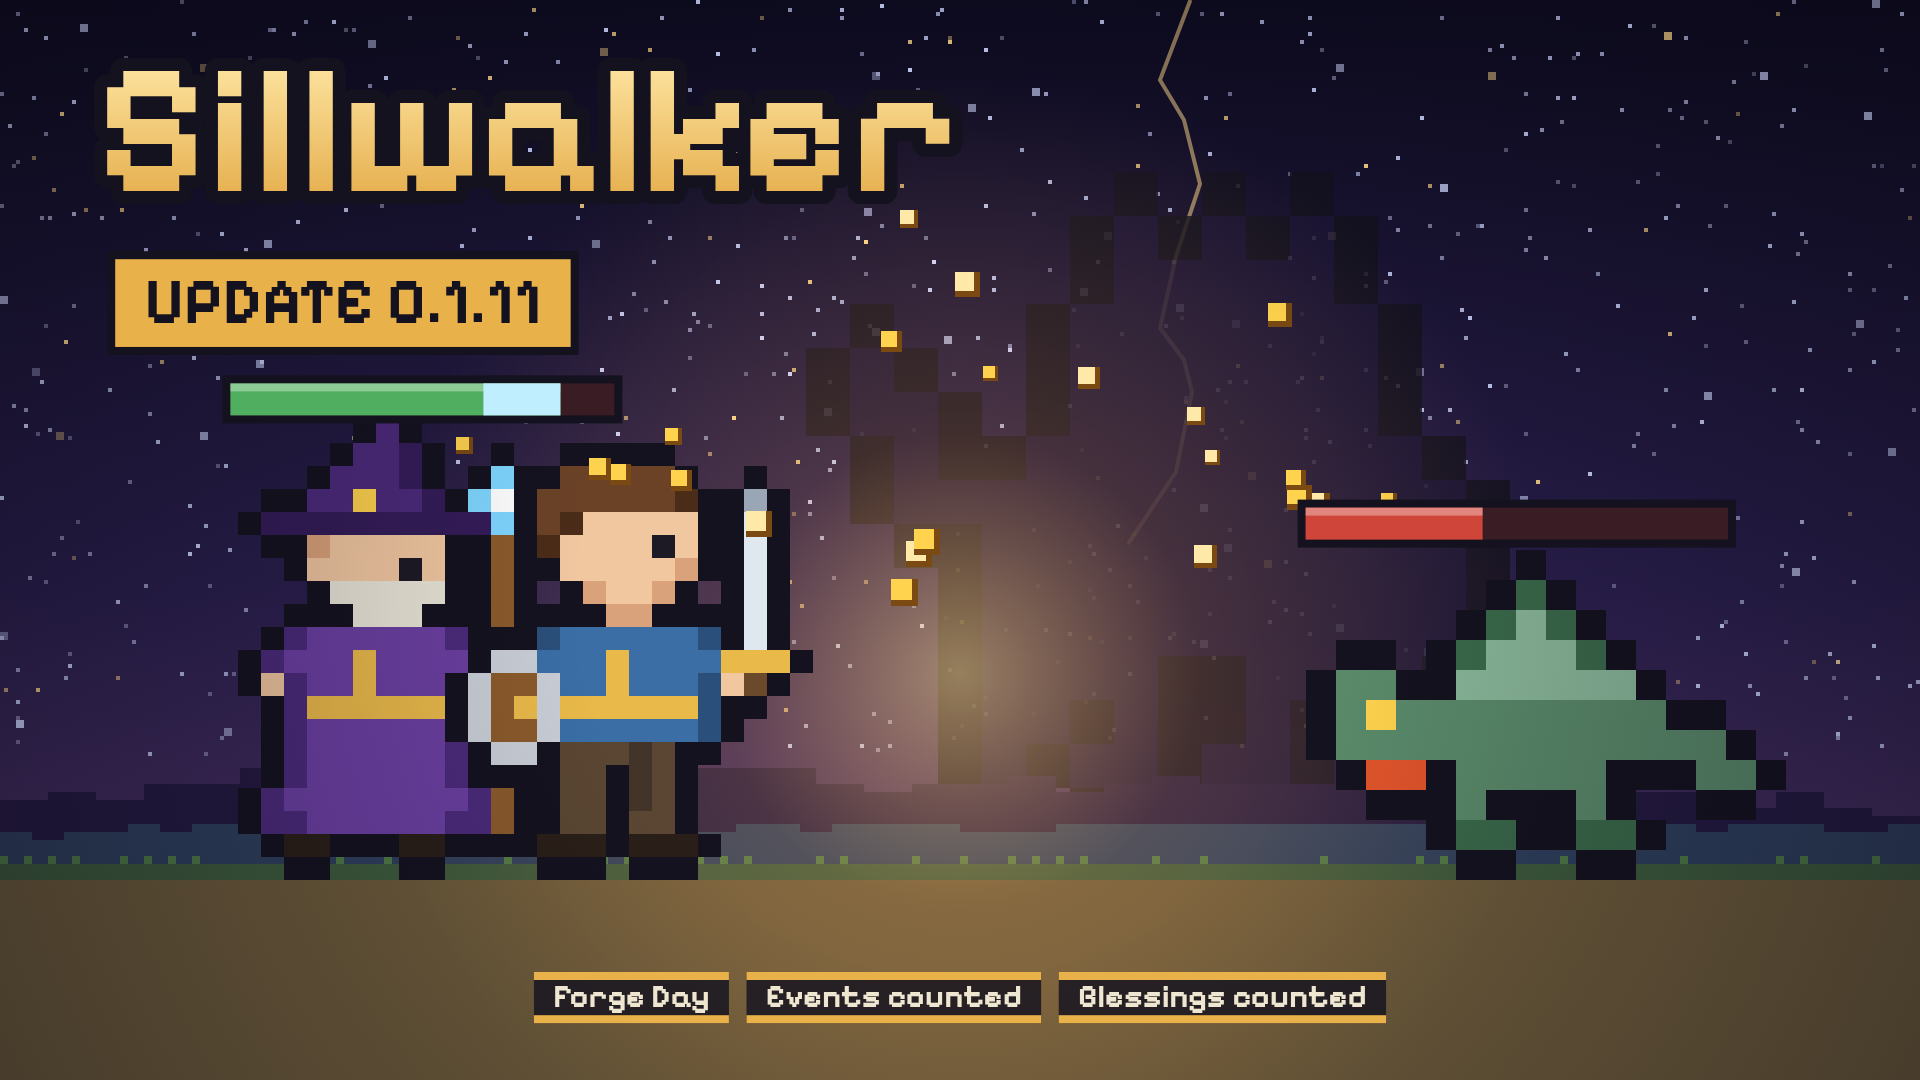
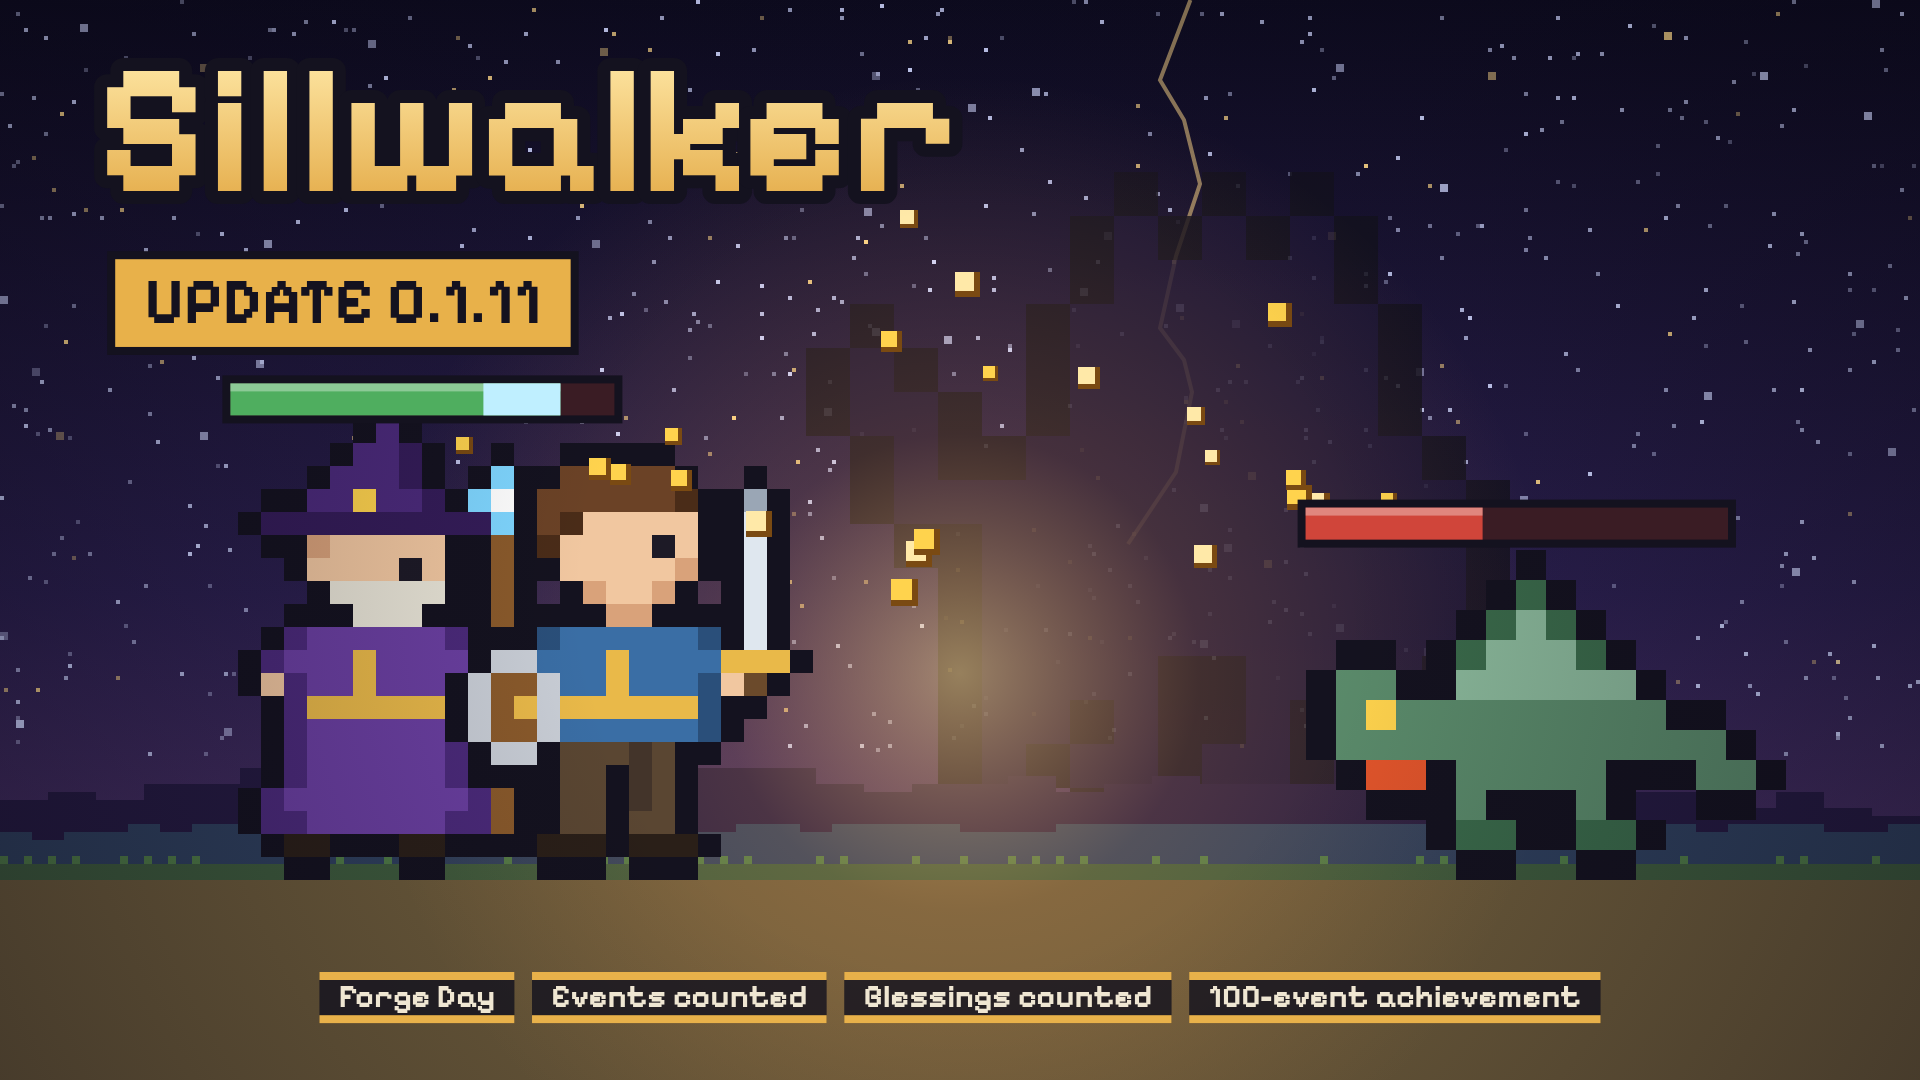
Quoi de neuf (it. 3302) : édition 192, couverture 0.1.11 complétée
Claude-Session: https://claude.ai/code/session_01BoV1hVHohF69q4PDskLo8j

Changed region(s): [[0.1562, 0.8861, 0.8438, 0.9472]]

diff --git a/src/renderer/game/news.js b/src/renderer/game/news.js
@@ -933,7 +933,10 @@ const EDITION_190 = [
 const EDITION_191 = [
   "Bestiaire : chaque événement rare vécu dit combien de fois, et chaque bénédiction du jour combien de jours tu l’as vécue.",
 ];
-export const NEWS_EDITIONS = [EDITION_1, EDITION_2, EDITION_3, EDITION_4, EDITION_5, EDITION_6, EDITION_7, EDITION_8, EDITION_9, EDITION_10, EDITION_11, EDITION_12, EDITION_13, EDITION_14, EDITION_15, EDITION_16, EDITION_17, EDITION_18, EDITION_19, EDITION_20, EDITION_21, EDITION_22, EDITION_23, EDITION_24, EDITION_25, EDITION_26, EDITION_27, EDITION_28, EDITION_29, EDITION_30, EDITION_31, EDITION_32, EDITION_33, EDITION_34, EDITION_35, EDITION_36, EDITION_37, EDITION_38, EDITION_39, EDITION_40, EDITION_41, EDITION_42, EDITION_43, EDITION_44, EDITION_45, EDITION_46, EDITION_47, EDITION_48, EDITION_49, EDITION_50, EDITION_51, EDITION_52, EDITION_53, EDITION_54, EDITION_55, EDITION_56, EDITION_57, EDITION_58, EDITION_59, EDITION_60, EDITION_61, EDITION_62, EDITION_63, EDITION_64, EDITION_65, EDITION_66, EDITION_67, EDITION_68, EDITION_69, EDITION_70, EDITION_71, EDITION_72, EDITION_73, EDITION_74, EDITION_75, EDITION_76, EDITION_77, EDITION_78, EDITION_79, EDITION_80, EDITION_81, EDITION_82, EDITION_83, EDITION_84, EDITION_85, EDITION_86, EDITION_87, EDITION_88, EDITION_89, EDITION_90, EDITION_91, EDITION_92, EDITION_93, EDITION_94, EDITION_95, EDITION_96, EDITION_97, EDITION_98, EDITION_99, EDITION_100, EDITION_101, EDITION_102, EDITION_103, EDITION_104, EDITION_105, EDITION_106, EDITION_107, EDITION_108, EDITION_109, EDITION_110, EDITION_111, EDITION_112, EDITION_113, EDITION_114, EDITION_115, EDITION_116, EDITION_117, EDITION_118, EDITION_119, EDITION_120, EDITION_121, EDITION_122, EDITION_123, EDITION_124, EDITION_125, EDITION_126, EDITION_127, EDITION_128, EDITION_129, EDITION_130, EDITION_131, EDITION_132, EDITION_133, EDITION_134, EDITION_135, EDITION_136, EDITION_137, EDITION_138, EDITION_139, EDITION_140, EDITION_141, EDITION_142, EDITION_143, EDITION_144, EDITION_145, EDITION_146, EDITION_147, EDITION_148, EDITION_149, EDITION_150, EDITION_151, EDITION_152, EDITION_153, EDITION_154, EDITION_155, EDITION_156, EDITION_157, EDITION_158, EDITION_159, EDITION_160, EDITION_161, EDITION_162, EDITION_163, EDITION_164, EDITION_165, EDITION_166, EDITION_167, EDITION_168, EDITION_169, EDITION_170, EDITION_171, EDITION_172, EDITION_173, EDITION_174, EDITION_175, EDITION_176, EDITION_177, EDITION_178, EDITION_179, EDITION_180, EDITION_181, EDITION_182, EDITION_183, EDITION_184, EDITION_185, EDITION_186, EDITION_187, EDITION_188, EDITION_189, EDITION_190, EDITION_191];
+const EDITION_192 = [
+  "Nouveau succès : « Témoin des prodiges (100 événements rares) », un objectif pour les longues parties.",
+];
+export const NEWS_EDITIONS = [EDITION_1, EDITION_2, EDITION_3, EDITION_4, EDITION_5, EDITION_6, EDITION_7, EDITION_8, EDITION_9, EDITION_10, EDITION_11, EDITION_12, EDITION_13, EDITION_14, EDITION_15, EDITION_16, EDITION_17, EDITION_18, EDITION_19, EDITION_20, EDITION_21, EDITION_22, EDITION_23, EDITION_24, EDITION_25, EDITION_26, EDITION_27, EDITION_28, EDITION_29, EDITION_30, EDITION_31, EDITION_32, EDITION_33, EDITION_34, EDITION_35, EDITION_36, EDITION_37, EDITION_38, EDITION_39, EDITION_40, EDITION_41, EDITION_42, EDITION_43, EDITION_44, EDITION_45, EDITION_46, EDITION_47, EDITION_48, EDITION_49, EDITION_50, EDITION_51, EDITION_52, EDITION_53, EDITION_54, EDITION_55, EDITION_56, EDITION_57, EDITION_58, EDITION_59, EDITION_60, EDITION_61, EDITION_62, EDITION_63, EDITION_64, EDITION_65, EDITION_66, EDITION_67, EDITION_68, EDITION_69, EDITION_70, EDITION_71, EDITION_72, EDITION_73, EDITION_74, EDITION_75, EDITION_76, EDITION_77, EDITION_78, EDITION_79, EDITION_80, EDITION_81, EDITION_82, EDITION_83, EDITION_84, EDITION_85, EDITION_86, EDITION_87, EDITION_88, EDITION_89, EDITION_90, EDITION_91, EDITION_92, EDITION_93, EDITION_94, EDITION_95, EDITION_96, EDITION_97, EDITION_98, EDITION_99, EDITION_100, EDITION_101, EDITION_102, EDITION_103, EDITION_104, EDITION_105, EDITION_106, EDITION_107, EDITION_108, EDITION_109, EDITION_110, EDITION_111, EDITION_112, EDITION_113, EDITION_114, EDITION_115, EDITION_116, EDITION_117, EDITION_118, EDITION_119, EDITION_120, EDITION_121, EDITION_122, EDITION_123, EDITION_124, EDITION_125, EDITION_126, EDITION_127, EDITION_128, EDITION_129, EDITION_130, EDITION_131, EDITION_132, EDITION_133, EDITION_134, EDITION_135, EDITION_136, EDITION_137, EDITION_138, EDITION_139, EDITION_140, EDITION_141, EDITION_142, EDITION_143, EDITION_144, EDITION_145, EDITION_146, EDITION_147, EDITION_148, EDITION_149, EDITION_150, EDITION_151, EDITION_152, EDITION_153, EDITION_154, EDITION_155, EDITION_156, EDITION_157, EDITION_158, EDITION_159, EDITION_160, EDITION_161, EDITION_162, EDITION_163, EDITION_164, EDITION_165, EDITION_166, EDITION_167, EDITION_168, EDITION_169, EDITION_170, EDITION_171, EDITION_172, EDITION_173, EDITION_174, EDITION_175, EDITION_176, EDITION_177, EDITION_178, EDITION_179, EDITION_180, EDITION_181, EDITION_182, EDITION_183, EDITION_184, EDITION_185, EDITION_186, EDITION_187, EDITION_188, EDITION_189, EDITION_190, EDITION_191, EDITION_192];
 export const NEWS_ID = NEWS_EDITIONS.length;
 /** Nouveautés des éditions après `seen` (0 : toutes), la plus récente d'abord. */
 export const newsItems = (seen = 0) => NEWS_EDITIONS.slice(Math.max(0, seen)).reverse().flat();

diff --git a/scripts/steam-capsules/make.js b/scripts/steam-capsules/make.js
@@ -20,7 +20,7 @@ const SIZES = [
   ["update-0.1.8", 1920, 1080, "update", { ver: "0.1.8", tags: "Fairer champions|Richer return|Safe full bag|One-click buys|Clear big numbers|Royal Favor event" }], // (it. 3193)
   ["update-0.1.9", 1920, 1080, "update", { ver: "0.1.9", tags: "Star Day|Relentless elite|Weasel & Hummingbird|Shooting-star quests|Clearer mini mode" }], // (it. 3237)
   ["update-0.1.10", 1920, 1080, "update", { ver: "0.1.10", tags: "Zeal Day|Champions’ Challenge|The Shrike pet|Friendlier mini mode|Clearer translations" }], // (it. 3260, 3273)
-  ["update-0.1.11", 1920, 1080, "update", { ver: "0.1.11", tags: "Forge Day|Events counted|Blessings counted" }], // (it. 3299)
+  ["update-0.1.11", 1920, 1080, "update", { ver: "0.1.11", tags: "Forge Day|Events counted|Blessings counted|100-event achievement" }], // (it. 3299, 3302)
 ].filter(([name]) => !process.env.ONLY || name === process.env.ONLY); // ONLY=<nom> : une seule image
 app.whenReady().then(async () => {
   fs.mkdirSync(OUT, { recursive: true });

diff --git a/src/renderer/i18n/lang/ru.js b/src/renderer/i18n/lang/ru.js
@@ -2410,4 +2410,5 @@ export default {
   3535: "{n} день|{n} дня|{n} дней",
   3536: "Бестиарий: у каждого пережитого редкого события видно, сколько раз, а у каждого благословения дня — сколько дней.",
   3537: "Свидетель чудес (100 редких событий)",
+  3538: "Новое достижение: «Свидетель чудес (100 редких событий)» — цель для долгих партий.",
 };

diff --git a/src/renderer/i18n/keys.js b/src/renderer/i18n/keys.js
@@ -3539,5 +3539,6 @@ export const KEYS = [
   "Nouvelle bénédiction du jour, le « Jour de la forge » : forger coûte deux fois moins cher ce jour-là.",
   "{n} jour|{n} jours",
   "Bestiaire : chaque événement rare vécu dit combien de fois, et chaque bénédiction du jour combien de jours tu l’as vécue.",
-  "Témoin des prodiges (100 événements rares)"
+  "Témoin des prodiges (100 événements rares)",
+  "Nouveau succès : « Témoin des prodiges (100 événements rares) », un objectif pour les longues parties."
 ];

diff --git a/src/renderer/i18n/lang/ja.js b/src/renderer/i18n/lang/ja.js
@@ -2410,4 +2410,5 @@ export default {
   3535: "{n} 日",
   3536: "モンスター図鑑：体験したレアイベントは回数を、日替わりの祝福は体験した日数を表示します。",
   3537: "奇跡の目撃者（レアイベント 100 回）",
+  3538: "新しい実績：「奇跡の目撃者（レアイベント 100 回）」、長く遊ぶ人のための目標。",
 };

diff --git a/src/renderer/i18n/lang/pl.js b/src/renderer/i18n/lang/pl.js
@@ -2410,4 +2410,5 @@ export default {
   3535: "{n} dzień|{n} dni|{n} dni",
   3536: "Bestiariusz: każde przeżyte rzadkie wydarzenie pokazuje, ile razy, a każde błogosławieństwo dnia – przez ile dni je miałeś.",
   3537: "Świadek cudów (100 rzadkich zdarzeń)",
+  3538: "Nowe osiągnięcie: „Świadek cudów (100 rzadkich zdarzeń)”, cel na długie rozgrywki.",
 };

diff --git a/src/renderer/i18n/lang/de.js b/src/renderer/i18n/lang/de.js
@@ -2410,4 +2410,5 @@ export default {
   3535: "{n} Tag|{n} Tage",
   3536: "Bestiarium: Jedes erlebte seltene Ereignis zeigt, wie oft, und jeder Segen des Tages, an wie vielen Tagen du ihn hattest.",
   3537: "Zeuge der Wunder (100 seltene Ereignisse)",
+  3538: "Neuer Erfolg: „Zeuge der Wunder (100 seltene Ereignisse)“, ein Ziel für lange Partien.",
 };

diff --git a/src/renderer/i18n/lang/pt.js b/src/renderer/i18n/lang/pt.js
@@ -2410,4 +2410,5 @@ export default {
   3535: "{n} dia|{n} dias",
   3536: "Bestiário: cada evento raro vivido mostra quantas vezes, e cada bênção do dia quantos dias você a teve.",
   3537: "Testemunha de prodígios (100 eventos raros)",
+  3538: "Nova conquista: “Testemunha de prodígios (100 eventos raros)”, um objetivo para partidas longas.",
 };

diff --git a/src/renderer/i18n/lang/es.js b/src/renderer/i18n/lang/es.js
@@ -2410,4 +2410,5 @@ export default {
   3535: "{n} día|{n} días",
   3536: "Bestiario: cada evento raro vivido indica cuántas veces, y cada bendición del día cuántos días la has tenido.",
   3537: "Testigo de prodigios (100 eventos raros)",
+  3538: "Nuevo logro: «Testigo de prodigios (100 eventos raros)», un objetivo para las partidas largas.",
 };

diff --git a/src/renderer/i18n/lang/ko.js b/src/renderer/i18n/lang/ko.js
@@ -2410,4 +2410,5 @@ export default {
   3535: "{n}일",
   3536: "몬스터 도감: 겪은 희귀 이벤트마다 횟수를, 오늘의 축복마다 겪은 날수를 보여 줍니다.",
   3537: "기적의 목격자 (희귀 이벤트 100회)",
+  3538: "새 업적: 「기적의 목격자 (희귀 이벤트 100회)」, 긴 플레이를 위한 목표.",
 };

diff --git a/src/renderer/i18n/lang/en.js b/src/renderer/i18n/lang/en.js
@@ -2410,4 +2410,5 @@ export default {
   3535: "{n} day|{n} days",
   3536: "Bestiary: each rare event you’ve lived shows how many times, and each daily blessing how many days you’ve had it.",
   3537: "Witness of Wonders (100 rare events)",
+  3538: "New achievement: “Witness of Wonders (100 rare events)”, a goal for long games.",
 };

diff --git a/src/renderer/i18n/lang/zh.js b/src/renderer/i18n/lang/zh.js
@@ -2410,4 +2410,5 @@ export default {
   3535: "{n} 天",
   3536: "怪物图鉴：每个经历过的稀有事件会显示次数，每个每日祝福会显示经历过的天数。",
   3537: "奇迹见证者（100 次稀有事件）",
+  3538: "新成就：「奇迹见证者（100 次稀有事件）」，长时间游戏的目标。",
 };
